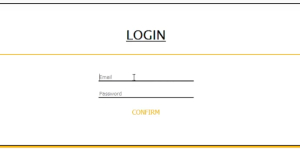
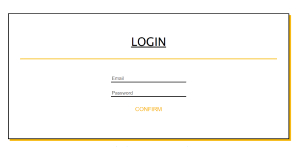
avanços no works

diff --git a/src/pages/Works__LoginPage.js b/src/pages/Works__LoginPage.js
@@ -1,20 +1,23 @@
 
 import {Link} from "react-router-dom"
-import img from "./../images/foto.png"
 import styles from "./pages.module.css"
 
 
 function Works__LoginPage (){
     return(
         <div className={styles.container}>
-
-        <h1>Login Pagr</h1>
-        <p>Este projeto é página de login, simulando um back-end, com algumas funcionalidades como: travar o botão de envio em caso de campos vazio, senha menor que 8 dígitos, e apos uma resposta do servidor e exigir uma senha correta.
-        </p>
-        <div><iframe width="532" height="300" src="https://www.youtube.com/embed/bVAdTovyOKE" ></iframe></div>
-
+        <h3>Login Page</h3>
+        <p>Este projeto é uma simulação de uma página de Login, também simula um back-end para as resposta do servidor, o login não é liberado a menos que a senha tenha 8 dígitos ou mais, além de um e-mail, apos o envio os dados são tratados, caso a senha esteja certa é liberado o acesso.</p> 
+        <a className={styles.link} href="https://github.com/Alexandre-Tortoza/login__page">GitHub</a>
+        <div>
+        <iframe width="560" height="315" src="https://www.youtube.com/embed/bVAdTovyOKE" title="YouTube video player" frameborder="0" allow="accelerometer; autoplay; clipboard-write; encrypted-media; gyroscope; picture-in-picture; web-share" allowfullscreen></iframe>
+        </div>
         <div><Link to="/"><span className={styles.bnt}>Voltar</span></Link></div>
         </div>
+
+
+
+
     )
 }
 export default Works__LoginPage;

diff --git a/src/pages/Works__VetCare.js b/src/pages/Works__VetCare.js
@@ -1,0 +1,24 @@
+
+import {Link} from "react-router-dom"
+import styles from "./pages.module.css"
+import vetcare from "./../images/vetcare.jpg"
+
+function Works__LoginPage (){
+    return(
+        <div className={styles.container}>
+        <h3>VerCare</h3>
+        <p>Projeto de uma landing page feita para uma clínica veterinária.</p> 
+        <a className={styles.link} href="https://github.com/Alexandre-Tortoza/VetCare__2023">GitHub</a>
+        <div>
+        {/* <iframe width="560" height="315" src="https://www.youtube.com/embed/bVAdTovyOKE" title="YouTube video player" frameborder="0" allow="accelerometer; autoplay; clipboard-write; encrypted-media; gyroscope; picture-in-picture; web-share" allowfullscreen></iframe> */}
+        <img src={vetcare}/>
+        </div>
+        <div><Link to="/"><span className={styles.bnt}>Voltar</span></Link></div>
+        </div>
+
+
+
+
+    )
+}
+export default Works__LoginPage;

diff --git a/src/components/Works.js b/src/components/Works.js
@@ -1,9 +1,8 @@
 
 import styles from "./Works.module.css"
-import safeMailIMG from "./../images/teste1.png"
 import WorkGroup from "./WorkGroup";
-import Works__LoginPage from "../pages/Works__LoginPage";
-
+import Works__VetCare from "../pages/Works__VetCare";
+import Works__LoginPage from './../pages/works__LoginPage'
 import {
     BrowserRouter as Router,
     Routes,
@@ -19,7 +18,9 @@ function Works() {
     <Router>
         <Routes>
             <Route path="/" element={<WorkGroup/>} />
-            <Route path="/Works/LoginPage" element={<Works__LoginPage/>} />
+            <Route path="/works/loginpage" element={<Works__LoginPage/>} />
+            <Route path="/works/vetcare" element={<Works__VetCare/>} />
+
         </Routes>
     </Router>
         </>

diff --git a/src/pages/pages.module.css b/src/pages/pages.module.css
@@ -8,10 +8,36 @@ align-items: center;
     color: black;
     padding-bottom: 1rem;
 }
+.container > h3{
+    font-size: 2rem;
+    font-weight: 500;
+}
+.container >a{
+    font-size: 1rem;
+    font-weight: 500;
+    color: #663399;
+    text-decoration: underline;
+}
+.container >div{
+   margin: 2rem;
+}
+.container >div>iframe{
+border: 2px solid black; 
+box-shadow: 5px 5px 0 #f2c49b;
+}
+
 .bnt{
     color: #f2c49b;
     margin: 22rem;
-    padding: .5rem;
+    padding: .6rem;
     border-radius: 15px;
     background-color: #663399;
+    text-transform: uppercase;
+    font-weight: 600;
+    letter-spacing: .2rem;
 }
+/* .link{
+    margin: 2rem;
+    background-color: red;
+    padding: 10rem;
+} */

diff --git a/src/components/WorkGroup.js b/src/components/WorkGroup.js
@@ -8,9 +8,8 @@ function WorkGroup(){
     return(
         <>
         <div className={styles.works__group}>
-            <Link to="/Works/LoginPage"><img src={loginPage}/></Link>
-            
-            <img src={vetcare}/>
+            <Link to="/Works/LoginPage"><img  src={loginPage}/></Link>
+            <Link to="/works/vetcare"><img src={vetcare}/></Link>
 
         </div>
         

diff --git a/src/components/WorksGroup.module.css b/src/components/WorksGroup.module.css
@@ -1,6 +1,12 @@
+
 .works__group{
     display: flex;
     margin: 1rem 5rem;
-    gap: 10px;
+    gap: 40px;
     justify-content: center;
 }
+.works__group >*{
+    border: 2px solid black;
+    box-shadow: 5px 5px 0 #663399;
+}
+
